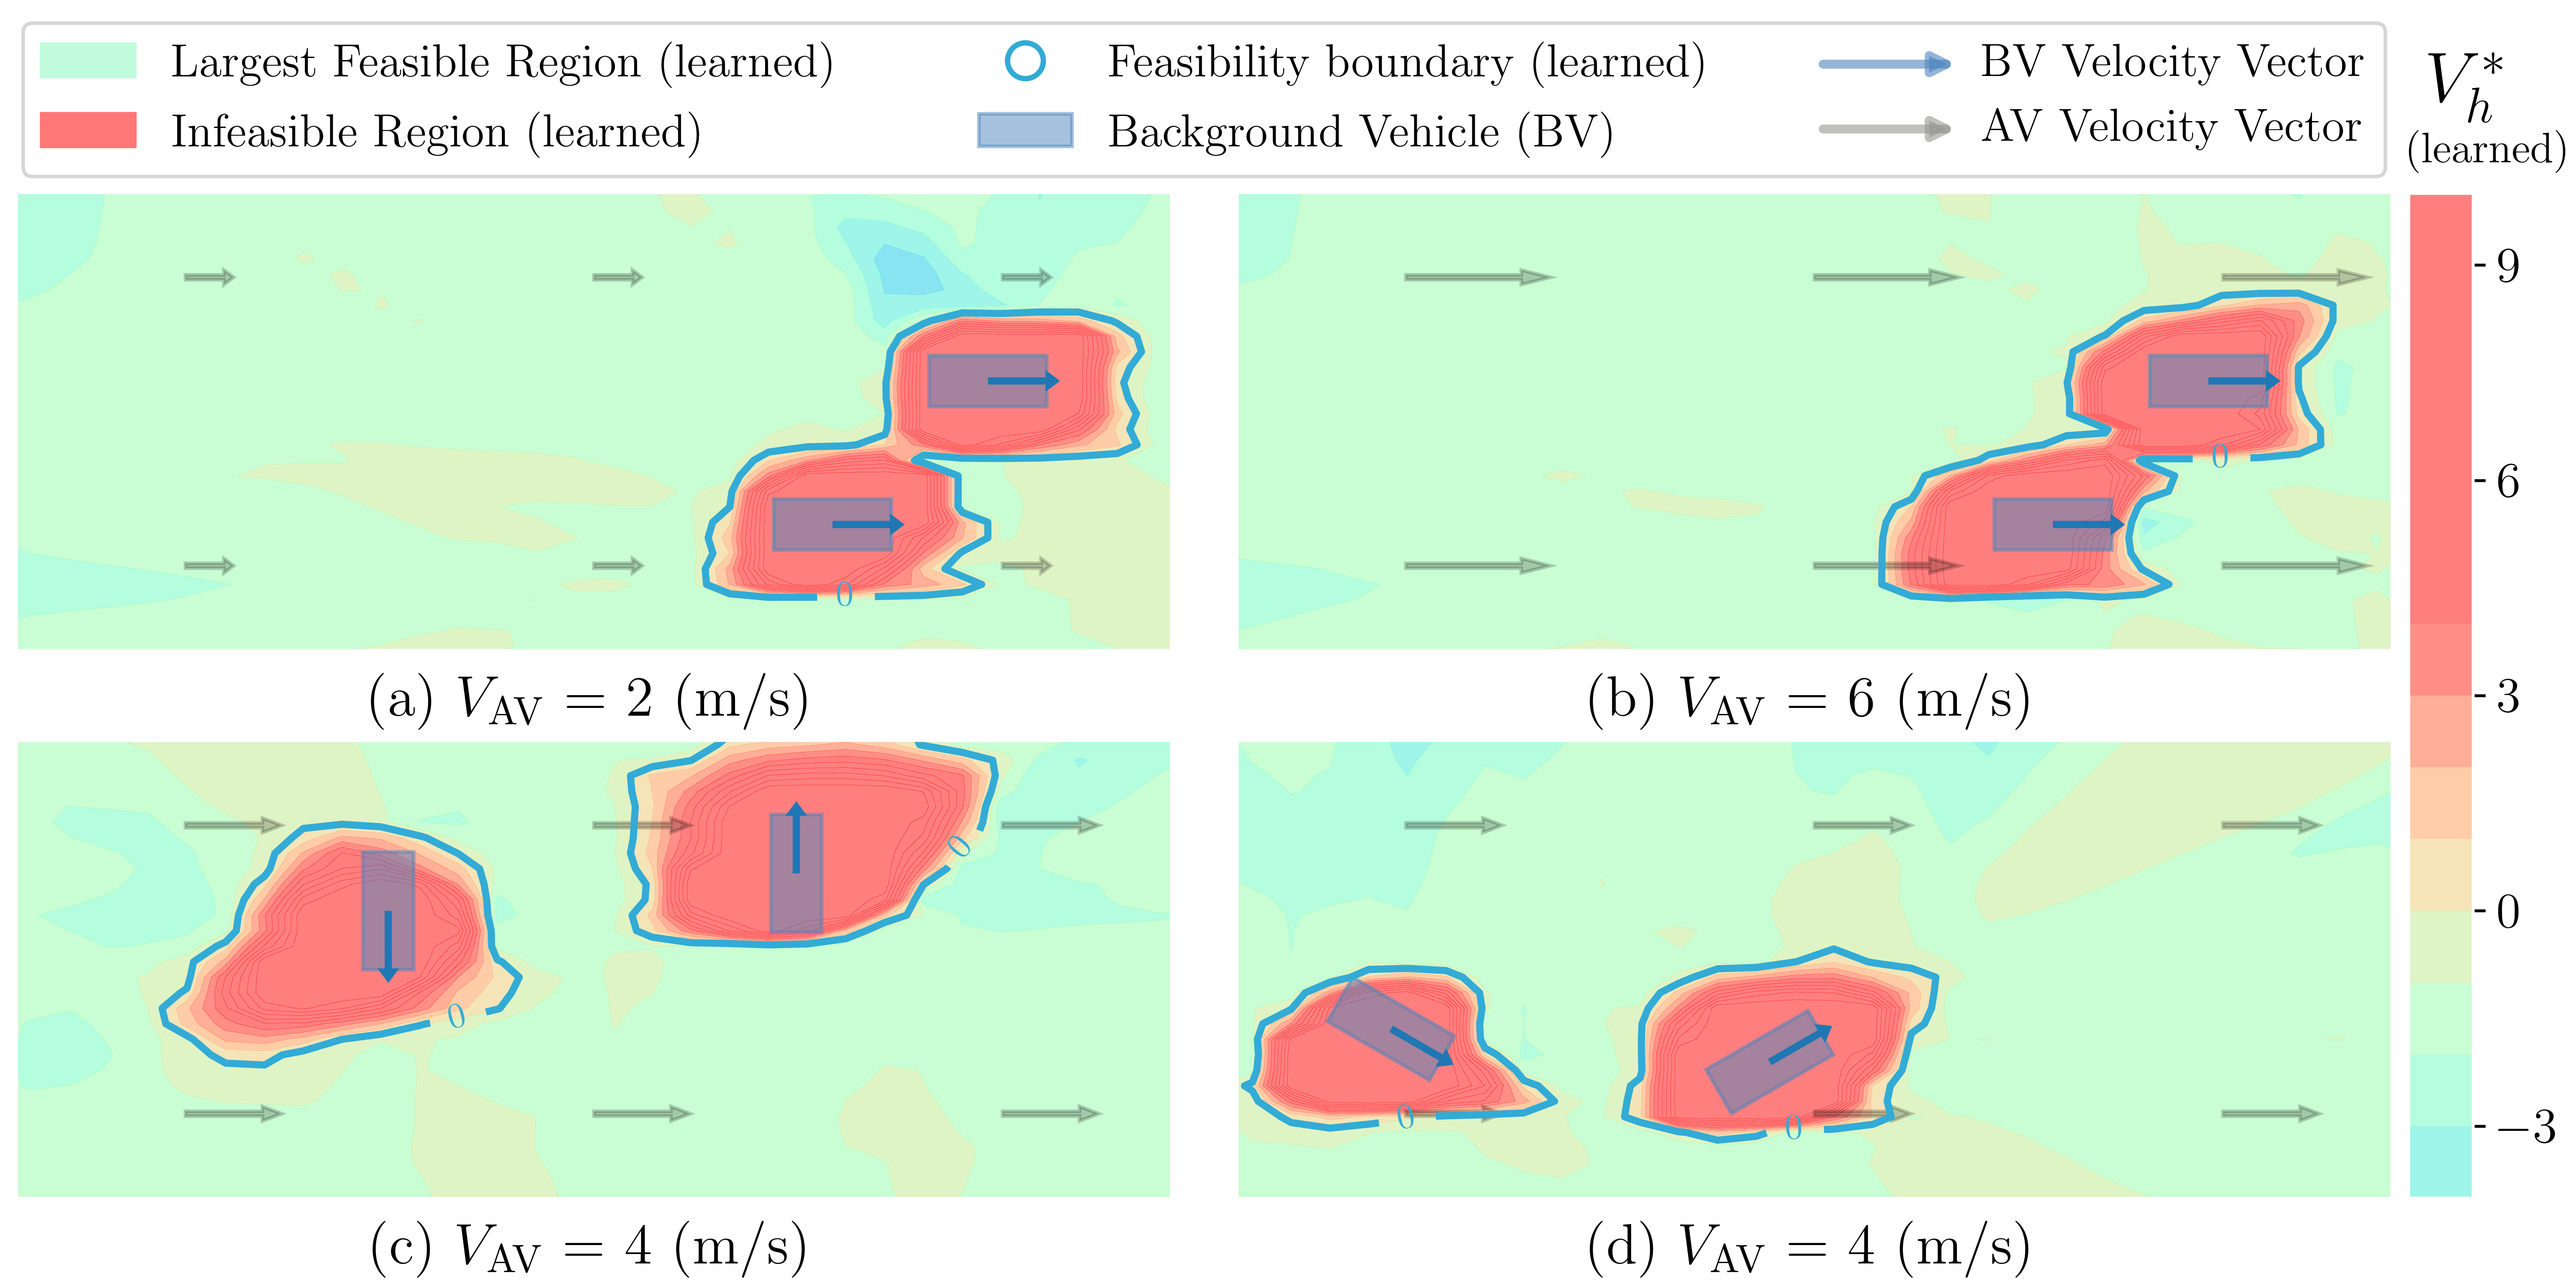
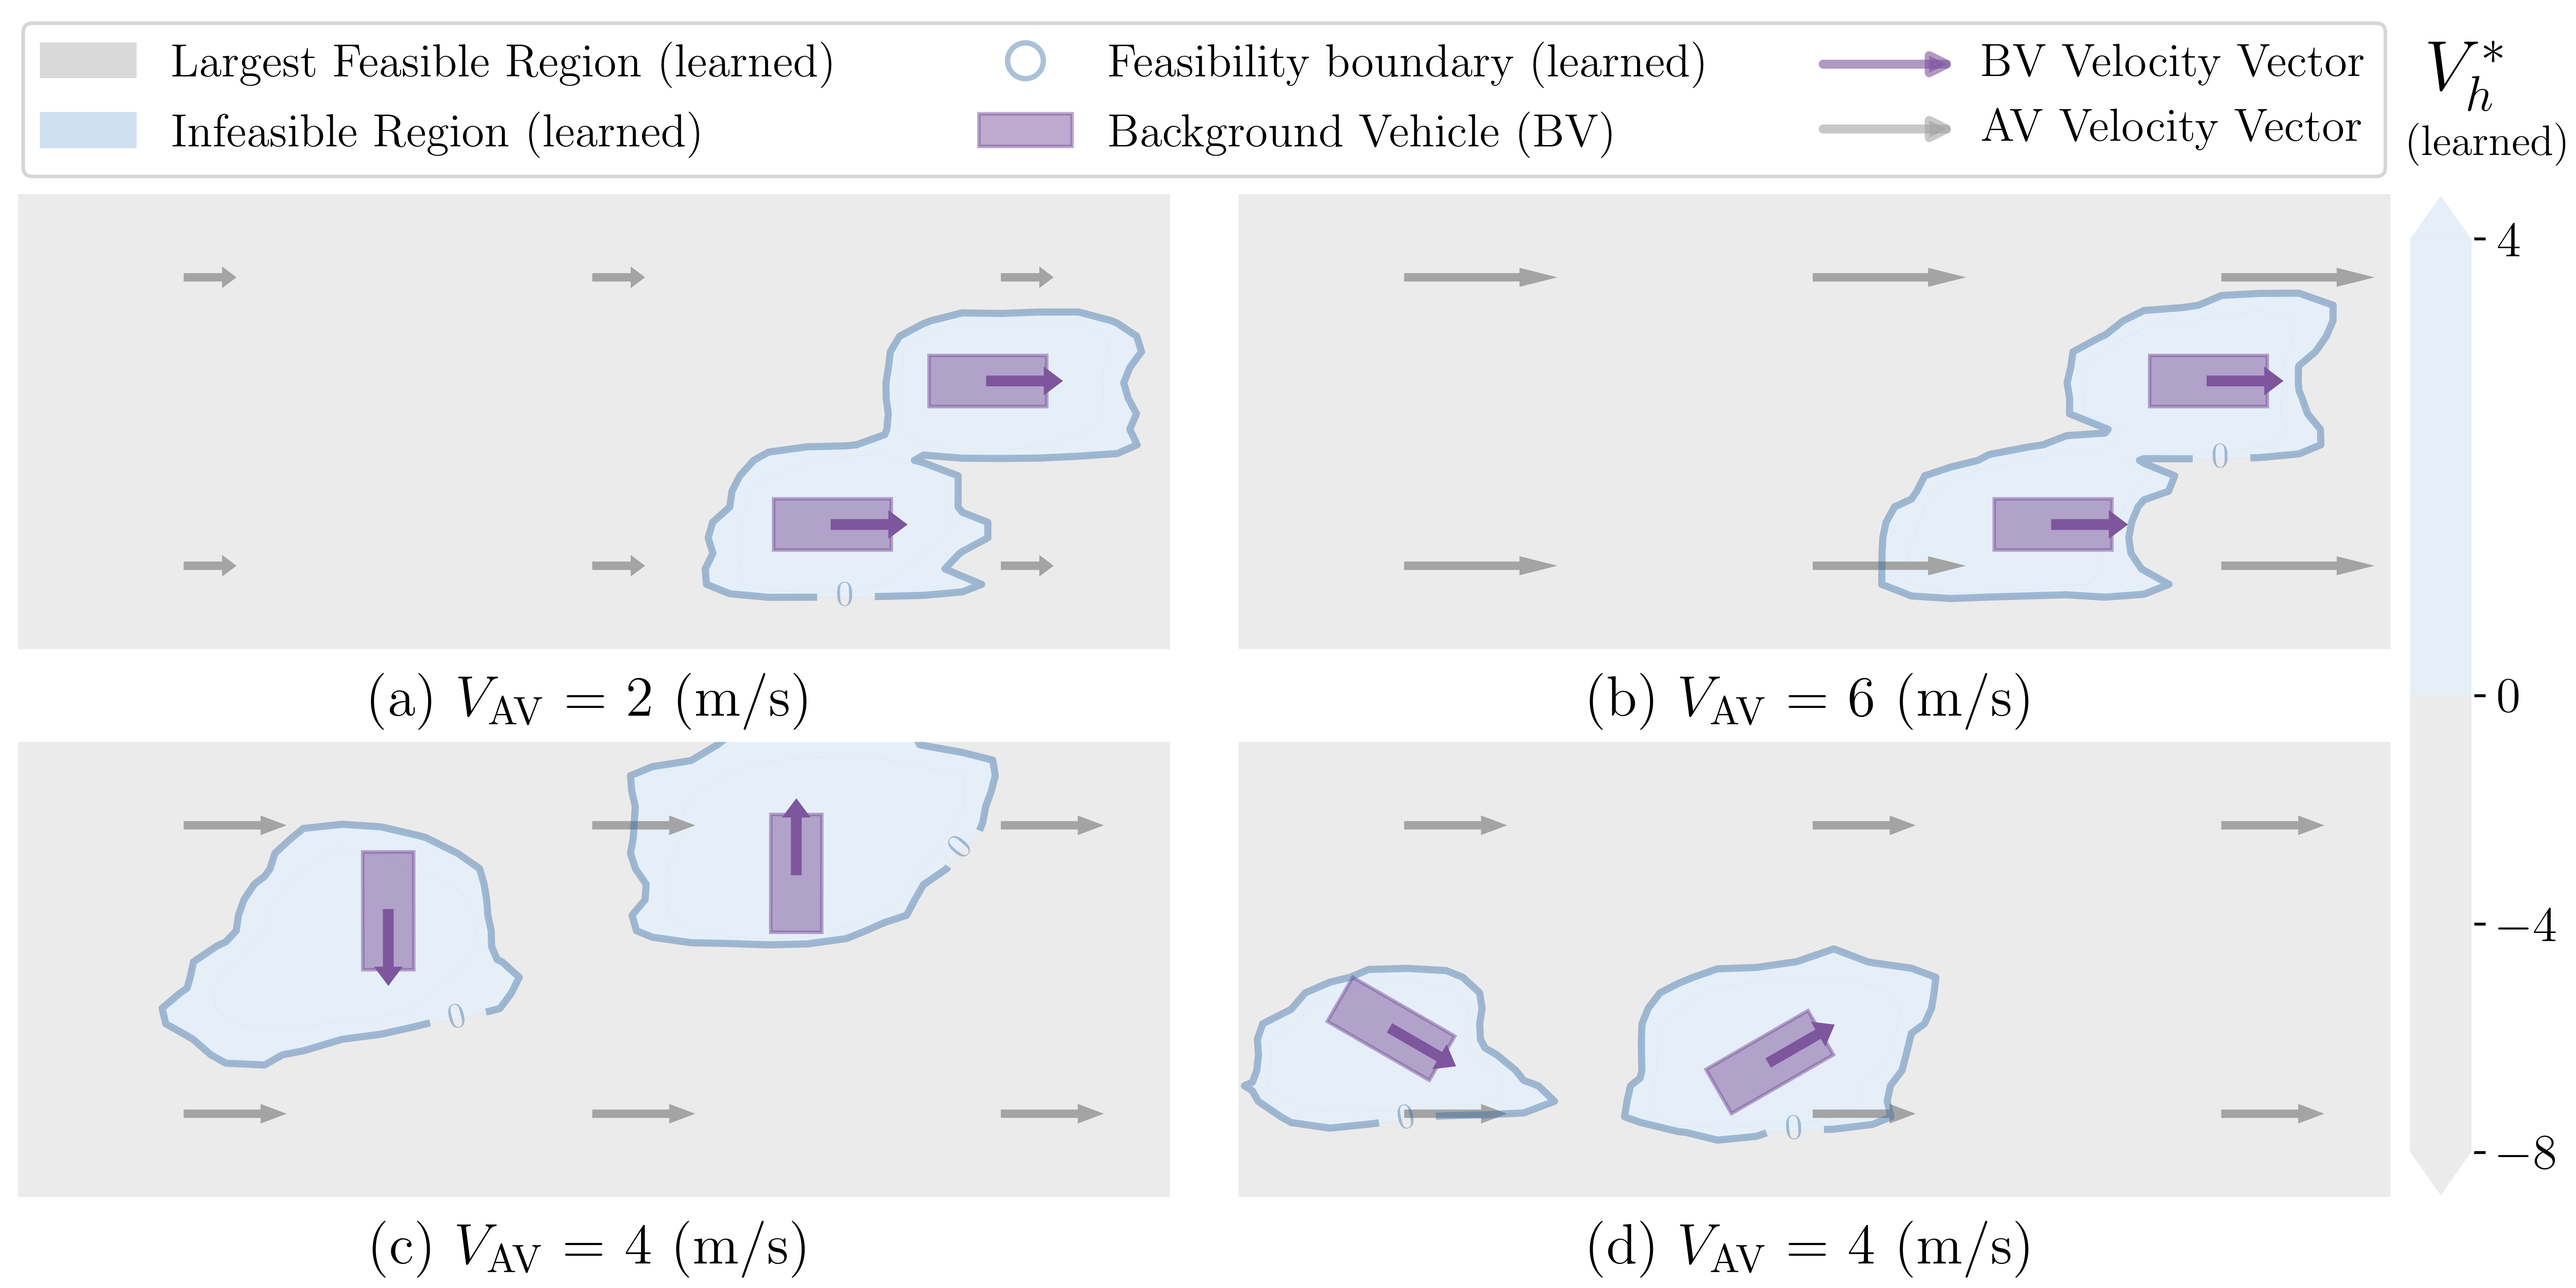
update the cmap of LFR viz

diff --git a/frea/feasibility/plot_feasibility.py b/frea/feasibility/plot_feasibility.py
@@ -232,21 +232,26 @@ def plot_feasibility_region(ax, agent, ego_obs, ego_speed, spatial_interval=10, 
     array_value = np.asarray(feasibility_value).reshape(x_grid.shape)
     array_value = np.clip(array_value, a_min=None, a_max=10)
 
-    norm = colors.Normalize(vmin=-8, vmax=4)
+    cmap = colors.ListedColormap(['#D9D9D9', '#CFE0F0'])
+
+    bounds = [-8, 0, 4]
+    norm = colors.BoundaryNorm(bounds, cmap.N)
 
     ct = ax.contourf(
         x_grid, y_grid, array_value,
         norm=norm,
-        levels=15,
-        cmap='rainbow',
-        alpha=0.5
+        levels=[-8, 0, 4],
+        cmap=cmap,
+        alpha=0.5,
+        extend='both'
     )
     # draw the '0' contour line
     if np.any(array_value <= 0):
         ct_line = ax.contour(
             x_grid, y_grid, array_value,
-            levels=[0], colors='#32ABD6',
-            linewidths=2.0, linestyles='solid'
+            levels=[0], colors='#2e66a0',
+            linewidths=2.0, linestyles='solid',
+            alpha=0.4
         )
         ax.clabel(ct_line, inline=True, fontsize=10, fmt=r'0')
 
@@ -254,14 +259,14 @@ def plot_feasibility_region(ax, agent, ego_obs, ego_speed, spatial_interval=10, 
     for i, Vehicle in enumerate(ego_obs):
         # the x,y in Rectangle in the bottom left corner
         if i >= 1:
-            color = (0.30, 0.52, 0.74)
+            color = '#7d569e'
             # the angle of the Rectangle is under right-handed coordinate system, but the yaw angle in carla is left-handed coordinate system
             rectangle = Rectangle((Vehicle[0]-Vehicle[2] / 2, Vehicle[1]-Vehicle[3] / 2), width=Vehicle[2], height=Vehicle[3], angle=-np.degrees(Vehicle[4]), rotation_point='center', fill=True, alpha=0.5, color=color)
             angle_rad = Vehicle[4]
             speed = Vehicle[5]
             # the angle of the Rectangle is under right-handed coordinate system, but the yaw angle in carla is left-handed coordinate system
             direction = [np.cos(angle_rad) * speed, - np.sin(angle_rad) * speed]
-            arrow = Arrow(x=Vehicle[0], y=Vehicle[1], dx=direction[0], dy=direction[1], width=1.5)
+            arrow = Arrow(x=Vehicle[0], y=Vehicle[1], dx=direction[0], dy=direction[1], width=1.5, color=color)
             ax.add_patch(rectangle)
             ax.add_patch(arrow)
     # plot all the arrows
@@ -272,7 +277,7 @@ def plot_feasibility_region(ax, agent, ego_obs, ego_speed, spatial_interval=10, 
     arrow_dir = [np.cos(ego_angle_rad) * ego_speed, - np.sin(ego_angle_rad) * ego_speed]
     for arrow_x in arrow_xs:
         for arrow_y in arrow_ys:
-            arrow = Arrow(x=arrow_x, y=arrow_y, dx=arrow_dir[0], dy=arrow_dir[1], width=1, color='k', alpha=0.2)
+            arrow = Arrow(x=arrow_x, y=arrow_y, dx=arrow_dir[0], dy=arrow_dir[1], width=1, color='#a4a4a4')
             ax.add_patch(arrow)
 
     ax.set_xlim([-24, 24])
@@ -378,22 +383,24 @@ def plot_multi_feasibility_region(args):
     fig.subplots_adjust(left=0.005, right=0.93, top=0.85, bottom=0.07, wspace=0.05)
     cbar_ax = fig.add_axes([0.935, 0.07, 0.025, 0.78])
     cb = fig.colorbar(ct4, cax=cbar_ax, shrink=0.18, pad=0.0, aspect=30, anchor=(0.0, 0.1))
-    cb.locator = MaxNLocator(nbins=5)
+
+    cb.locator = MaxNLocator(nbins=3, integer=True)
     cb.update_ticks()
+
     cb.ax.tick_params(labelsize=14)
-    cb.ax.text(0.3, 1.07, r'$V^*_h$', ha='left', va='bottom', transform=cb.ax.transAxes, fontsize=20)
-    cb.ax.text(0.0, 1.02, r'$\mathrm{(learned)}$', ha='left', va='bottom', transform=cb.ax.transAxes, fontsize=12)
+    cb.ax.text(0.3, 1.14, r'$V^*_h$', ha='left', va='bottom', transform=cb.ax.transAxes, fontsize=20)
+    cb.ax.text(0.0, 1.08, r'$\mathrm{(learned)}$', ha='left', va='bottom', transform=cb.ax.transAxes, fontsize=12)
     cb.outline.set_edgecolor('white')
     # cb = plt.colorbar(ct, ax=ax, shrink=0.75, pad=0.01, aspect=8, anchor=(0.0, 0.1))
 
     legend_elements = [
-        Patch(facecolor='#c0fcdc', edgecolor='#c0fcdc', label='Largest Feasible Region (learned)'),
-        Patch(facecolor='#ff7777', edgecolor='#ff7777', label='Infeasible Region (learned)'),
+        Patch(facecolor='#D9D9D9', edgecolor='#D9D9D9', label='Largest Feasible Region (learned)'),
+        Patch(facecolor='#CFE0F0', edgecolor='#CFE0F0', label='Infeasible Region (learned)'),
         Line2D([0], [0], marker='o', color='none', label='Feasibility boundary (learned)',
-               markerfacecolor='none', markeredgecolor='#32ABD6', markersize=10, markeredgewidth=1.5),
-        Rectangle((0, 0), width=4.9, height=2.12, rotation_point='center', label='Background Vehicle (BV)', fill=True, alpha=0.5, color=(0.30, 0.52, 0.74)),
-        FancyArrowPatch((0, 0), (20, 0), arrowstyle='-|>', color=(0.30, 0.52, 0.74), label='BV Velocity Vector'),
-        FancyArrowPatch((0, 0), (20, 0), arrowstyle='-|>', color='#969693', label='AV Velocity Vector')
+               markerfacecolor='none', markeredgecolor='#2e66a0', markersize=10, markeredgewidth=1.5, alpha=0.4),
+        Rectangle((0, 0), width=4.9, height=2.12, rotation_point='center', label='Background Vehicle (BV)', fill=True, alpha=0.5, color='#7d569e'),
+        FancyArrowPatch((0, 0), (20, 0), arrowstyle='-|>', color='#7d569e', label='BV Velocity Vector'),
+        FancyArrowPatch((0, 0), (20, 0), arrowstyle='-|>', color='#a4a4a4', label='AV Velocity Vector')
     ]
 
     fig.legend(handles=legend_elements, loc='upper center', ncol=3, bbox_to_anchor=(0.0, 0.92, 0.935, 0.08), handler_map={FancyArrowPatch: HandlerArrow()}, mode='expand', fontsize=13)
